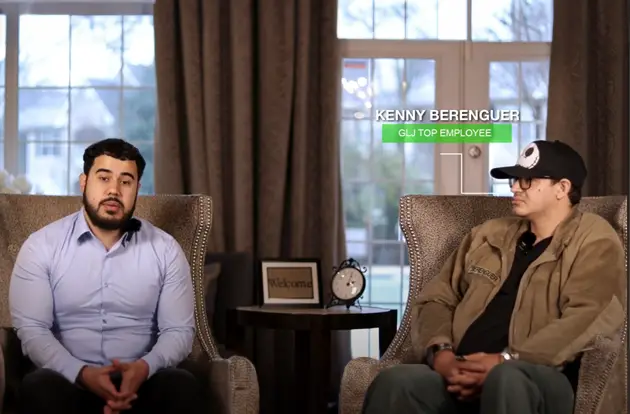
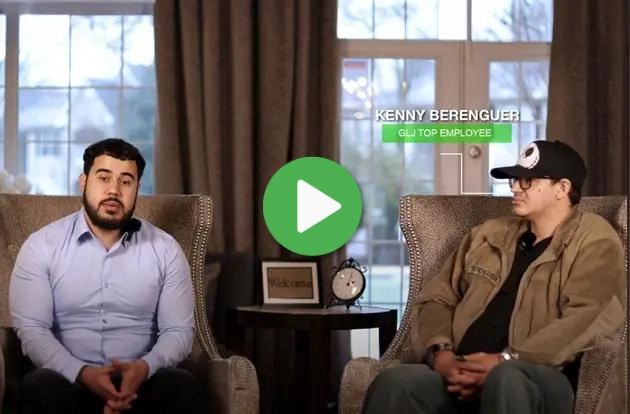
all I hope

Changed region(s): [[0.3921, 0.3768, 0.6032, 0.6377]]

diff --git a/src/content/pages/testimonials.html b/src/content/pages/testimonials.html
@@ -251,37 +251,31 @@ eleventyNavigation:
       </ul>
     </div>
     <div class="cs-wrapper">
-      <picture class="cs-picture">
-        <!--Mobile Image-->
-        <source
+      <picture class="cs-picture"
+        ><source
           media="(max-width: 600px)"
-          srcset="/assets/images/good-labor-jobs-top-employee.webp"
-        />
-        <!--Tablet and above Image-->
+          srcset="/assets/images/good-labor-jobs-top-employee.webp" />
         <source
           media="(min-width: 601px)"
-          srcset="/assets/images/good-labor-jobs-top-employee.webp"
-        />
+          srcset="/assets/images/good-labor-jobs-top-employee.webp" />
         <img
+          alt="meeting"
           loading="lazy"
           decoding="async"
           src="/assets/images/good-labor-jobs-top-employee.webp"
-          alt="meeting"
           width="630"
           height="414"
-        />
-      </picture>
-
+      /></picture>
       <p class="cs-review">
         <svg
           class="cs-quote"
-          preserveAspectRatio="none"
           viewBox="0 0 100 93"
-          fill="none"
           xmlns="http://www.w3.org/2000/svg"
+          fill="none"
           preser
+          preserveAspectRatio="none"
         >
-          <g opacity=".4" clip-path="url(#a)" fill="var(--quoteColor)">
+          <g clip-path="url(#a)" fill="var(--quoteColor)" opacity=".4">
             <path
               d="M22.94 84H0L18.305.854H55L22.94 84ZM67.94 84H45L63.305.854H100L67.94 84Z"
             />
@@ -289,14 +283,13 @@ eleventyNavigation:
           <defs>
             <clipPath id="a-1657">
               <path
+                d="M0 0h100v83.146H0z"
                 fill="#fff"
                 transform="translate(0 .854)"
-                d="M0 0h100v83.146H0z"
               />
             </clipPath>
           </defs>
         </svg>
-
         If you do well enough, they give you an option to change positions or to
         learn something new. If you've got the guts, you can do it.
       </p>
@@ -453,16 +446,30 @@ eleventyNavigation:
 
 <section id="cta-488">
   <div class="cs-container">
-      <div class="cs-content">
-          <span class="cs-topper">Join Us</span>
-          <h2 class="cs-title">Let's Build a Future Together</h2>
-          <a href="/contact" class="cs-link">Contact Us</a>
-      </div>
+    <div class="cs-content">
+      <span class="cs-topper">Join Us</span>
+      <h2 class="cs-title">Let's Build a Future Together</h2>
+      <a href="/contact" class="cs-link">Contact Us</a>
+    </div>
   </div>
   <picture class="cs-background">
-      <source media="(max-width: 600px)" srcset="/assets/images/good-labor-jobs-business-meeting-m.webp">
-      <source media="(min-width: 601px)" srcset="/assets/images/good-labor-jobs-business-meeting.webp">
-      <img loading="lazy" decoding="async" src="/assets/images/good-labor-jobs-business-meeting.webp" alt="meeting" width="1920" height="543" aria-hidden="true">
+    <source
+      media="(max-width: 600px)"
+      srcset="/assets/images/good-labor-jobs-business-meeting-m.webp"
+    />
+    <source
+      media="(min-width: 601px)"
+      srcset="/assets/images/good-labor-jobs-business-meeting.webp"
+    />
+    <img
+      loading="lazy"
+      decoding="async"
+      src="/assets/images/good-labor-jobs-business-meeting.webp"
+      alt="meeting"
+      width="1920"
+      height="543"
+      aria-hidden="true"
+    />
   </picture>
 </section>
 

diff --git a/src/assets/css/testimonials.css b/src/assets/css/testimonials.css
@@ -425,6 +425,13 @@
     top: 0;
     left: 0;
   }
+  #why-choose-1657 #videoPlayer {
+    position: absolute;
+    top: 0;
+    left: 0;
+    width: 100%;
+    height: 100%;
+  }
   #why-choose-1657 .cs-quote {
     /* 62px - 100px */
     width: clamp(3.875rem, 7vw, 6.25rem);
@@ -522,21 +529,18 @@
   }
   #video-1682 .cs-container {
     width: 100%;
-    max-width: 80rem;
+    max-width: 1280px;
     margin: auto;
     display: flex;
     flex-direction: column;
     align-items: center;
-    /* 48px - 64px */
     gap: clamp(3rem, 6vw, 4rem);
   }
   #video-1682 .cs-content {
-    /* set text align to left if content needs to be left aligned */
     text-align: center;
     width: 100%;
     display: flex;
     flex-direction: column;
-    /* centers content horizontally, set to flex-start to left align */
     align-items: center;
   }
   #video-1682 .cs-title {

diff --git a/src/assets/less/testimonials.less b/src/assets/less/testimonials.less
@@ -519,6 +519,14 @@
       }
     }
 
+    #videoPlayer {
+      position: absolute;
+      top: 0;
+      left: 0;
+      width: 100%;
+      height: 100%;
+    }
+
     .cs-quote {
       /* 62px - 100px */
       width: clamp(3.875rem, 7vw, 6.25rem);
@@ -638,22 +646,19 @@
 
     .cs-container {
       width: 100%;
-      max-width: (1280/16rem);
+      max-width: 1280px;
       margin: auto;
       display: flex;
       flex-direction: column;
       align-items: center;
-      /* 48px - 64px */
       gap: clamp(3rem, 6vw, 4rem);
     }
 
     .cs-content {
-      /* set text align to left if content needs to be left aligned */
       text-align: center;
       width: 100%;
       display: flex;
       flex-direction: column;
-      /* centers content horizontally, set to flex-start to left align */
       align-items: center;
     }
 

diff --git a/src/content/blog/the-importance-of-staffing-solutions-in-hospitality.md b/src/content/blog/the-importance-of-staffing-solutions-in-hospitality.md
@@ -1,9 +1,10 @@
 ---
 title: The Importance of Staffing Solutions in Hospitality
-description: "The role of Good Labor Jobs in providing staffing solutions for
-  the hospitality industry. It covers how their services, including recruitment,
+description: The role of Good Labor Jobs in providing staffing solutions for the
+  hospitality industry. It covers how their services, including recruitment,
   payroll, and training, help businesses maintain high service standards and
-  manage seasonal labor needs efficiently. "
+  manage seasonal labor needs efficiently. For more information, visit Good
+  Labor Jobs.
 author: Coby Orr
 date: 2024-09-26T10:33:00.000Z
 tags:
